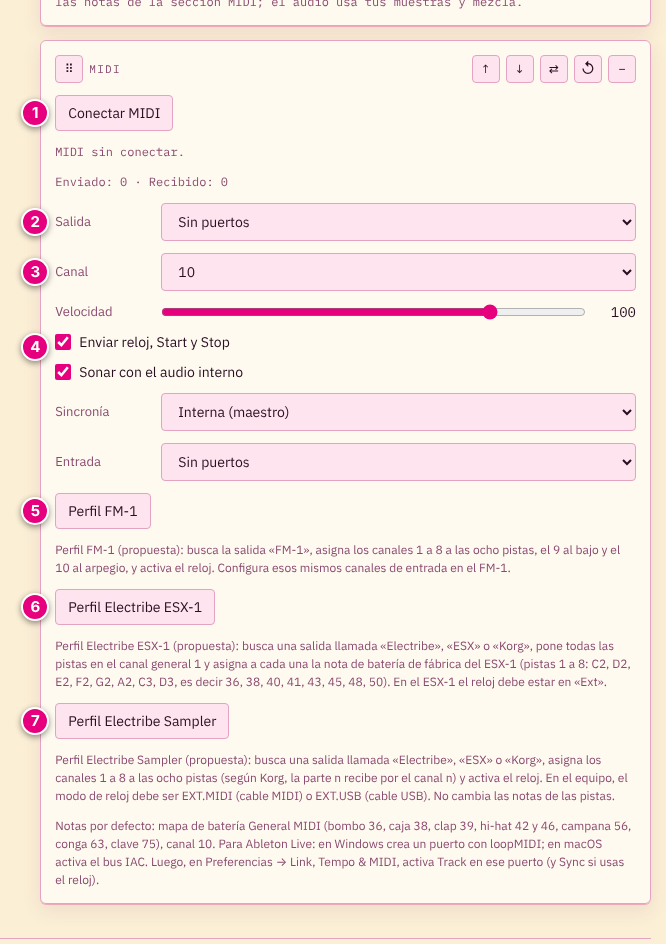
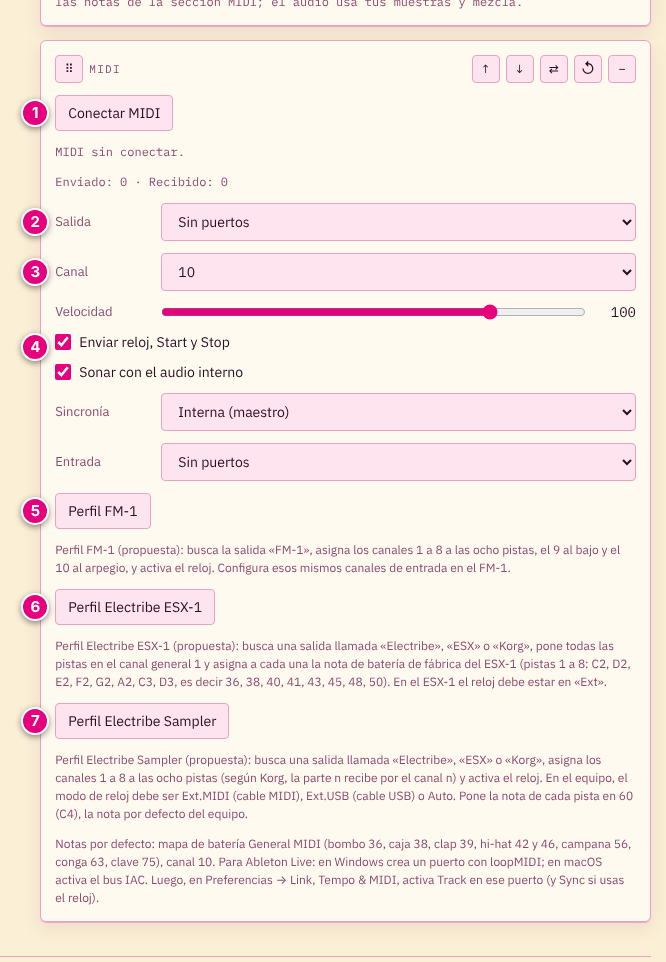
Perfil Electribe Sampler: nota 60 (C4) y modos de reloj Ext.MIDI/Ext.USB/Auto según el manual de Korg (0.18.3 / DE 0.6.3 / VA 0.3.3)
Claude-Session: https://claude.ai/code/session_01QbXvejNrjV47qK3Z6mWcs5

Changed region(s): [[0.03, 0.4915, 0.961, 0.9523], [0.03, 0.0307, 0.961, 0.5222], [0.7207, 0.0307, 0.961, 0.0922]]

diff --git a/vanilla/index.html b/vanilla/index.html
@@ -262,10 +262,10 @@ html[data-skin="dark"] body { background: radial-gradient(ellipse at 50% -10%, #
       <svg class="pisces" viewBox="0 0 24 24" fill="none" stroke="currentColor" stroke-width="1.6" stroke-linecap="round" aria-hidden="true"><path d="M6 3.5C11.5 8 11.5 16 6 20.5"/><path d="M18 3.5C12.5 8 12.5 16 18 20.5"/><path d="M4 12h16"/></svg>
       <div><div class="maker">Dark Empaths</div><div class="sub">Vanilla</div></div>
     </div>
-    <div class="model"><h1>Clave Circular</h1><span class="fw">Firmware VA 0.3.2</span></div>
+    <div class="model"><h1>Clave Circular</h1><span class="fw">Firmware VA 0.3.3</span></div>
   </header>
   <div class="tline" aria-hidden="true"></div>
-  <div class="strip" id="strip" role="status" aria-live="off">FW VA 0.3.2</div>
+  <div class="strip" id="strip" role="status" aria-live="off">FW VA 0.3.3</div>
   <div class="tools">
     <label class="tool" for="skinSel"><span>Skin</span>
       <select id="skinSel"><option value="vanilla">Vanilla</option><option value="dark">Darth</option><option value="base">Base</option></select></label>
@@ -514,7 +514,7 @@ html[data-skin="dark"] body { background: radial-gradient(ellipse at 50% -10%, #
         <div class="row wrap-row"><button id="esxProfile" type="button">Perfil Electribe ESX-1</button></div>
         <p class="note">Perfil Electribe ESX-1 (propuesta): busca una salida llamada «Electribe», «ESX» o «Korg», pone todas las pistas en el canal general 1 y asigna a cada una la nota de batería de fábrica del ESX-1 (pistas 1 a 8: C2, D2, E2, F2, G2, A2, C3, D3, es decir 36, 38, 40, 41, 43, 45, 48, 50). En el ESX-1 el reloj debe estar en «Ext».</p>
         <div class="row wrap-row"><button id="esProfile" type="button">Perfil Electribe Sampler</button></div>
-        <p class="note">Perfil Electribe Sampler (propuesta): busca una salida llamada «Electribe», «ESX» o «Korg», asigna los canales 1 a 8 a las ocho pistas (según Korg, la parte n recibe por el canal n) y activa el reloj. En el equipo, el modo de reloj debe ser EXT.MIDI (cable MIDI) o EXT.USB (cable USB). No cambia las notas de las pistas.</p>
+        <p class="note">Perfil Electribe Sampler (propuesta): busca una salida llamada «Electribe», «ESX» o «Korg», asigna los canales 1 a 8 a las ocho pistas (según Korg, la parte n recibe por el canal n) y activa el reloj. En el equipo, el modo de reloj debe ser Ext.MIDI (cable MIDI), Ext.USB (cable USB) o Auto. Pone la nota de cada pista en 60 (C4), la nota por defecto del equipo.</p>
         <p class="note">Notas por defecto: mapa de batería General MIDI (bombo 36, caja 38, clap 39, hi-hat 42 y 46, campana 56, conga 63, clave 75), canal 10. Para Ableton Live: en Windows crea un puerto con loopMIDI; en macOS activa el bus IAC. Luego, en Preferencias → Link, Tempo &amp; MIDI, activa Track en ese puerto (y Sync si usas el reloj).</p>
       </div>
     </div>
@@ -522,7 +522,7 @@ html[data-skin="dark"] body { background: radial-gradient(ellipse at 50% -10%, #
 
   <footer class="foot">
     <svg  viewBox="0 0 24 24" fill="none" stroke="currentColor" stroke-width="1.6" stroke-linecap="round" aria-hidden="true"><path d="M6 3.5C11.5 8 11.5 16 6 20.5"/><path d="M18 3.5C12.5 8 12.5 16 18 20.5"/><path d="M4 12h16"/></svg>
-    <span>Dark Empaths · Vanilla</span><span>Clave Circular · Vanilla FW VA 0.3.2</span><span>T_T</span>
+    <span>Dark Empaths · Vanilla</span><span>Clave Circular · Vanilla FW VA 0.3.3</span><span>T_T</span>
   </footer>
 </div>
 
@@ -1028,7 +1028,7 @@ html[data-skin="dark"] body { background: radial-gradient(ellipse at 50% -10%, #
       if (LANGS.indexOf(nl) >= 0) LANG = nl;
     }
   } catch (e) { /* sin almacenamiento */ }
-  /* VA 0.3.2: generativo, modulación, MIDI por pista */
+  /* VA 0.3.3: generativo, modulación, MIDI por pista */
   [
   ["Generativo", "Generative", "Generativo", "生成", "Генератив"],
   ["Pista seleccionada", "Selected track", "Pista selecionada", "所选轨道", "Выбранная дорожка"],
@@ -1108,11 +1108,11 @@ html[data-skin="dark"] body { background: radial-gradient(ellipse at 50% -10%, #
   ["Perfil Electribe ESX-1 aplicado y salida «{0}» elegida.", "Electribe ESX-1 profile applied and output «{0}» chosen.", "Perfil Electribe ESX-1 aplicado e saída «{0}» escolhida.", "已应用 Electribe ESX-1 配置并选择输出“{0}”。", "Профиль Electribe ESX-1 применён, выбран выход «{0}»."],
   ["Perfil Electribe ESX-1 aplicado. No encontré una salida con ese nombre: conecta el MIDI y elígela en Salida.", "Electribe ESX-1 profile applied. I found no output with that name: connect MIDI and pick it in Output.", "Perfil Electribe ESX-1 aplicado. Não encontrei uma saída com esse nome: conecte o MIDI e escolha-a em Saída.", "已应用 Electribe ESX-1 配置。未找到该名称的输出:请连接 MIDI 并在“输出”中选择。", "Профиль Electribe ESX-1 применён. Выход с таким именем не найден: подключите MIDI и выберите его в «Выход»."],
   ["Perfil Electribe Sampler", "Electribe Sampler profile", "Perfil Electribe Sampler", "Electribe Sampler 配置", "Профиль Electribe Sampler"],
-  ["Perfil Electribe Sampler (propuesta): busca una salida llamada «Electribe», «ESX» o «Korg», asigna los canales 1 a 8 a las ocho pistas (según Korg, la parte n recibe por el canal n) y activa el reloj. En el equipo, el modo de reloj debe ser EXT.MIDI (cable MIDI) o EXT.USB (cable USB). No cambia las notas de las pistas.",
-   "Electribe Sampler profile (proposal): looks for an output named «Electribe», «ESX» or «Korg», assigns channels 1 to 8 to the eight tracks (per Korg, part n receives on channel n) and turns the clock on. On the unit, the clock mode must be EXT.MIDI (MIDI cable) or EXT.USB (USB cable). It does not change the track notes.",
-   "Perfil Electribe Sampler (proposta): procura uma saída chamada «Electribe», «ESX» ou «Korg», atribui os canais 1 a 8 às oito pistas (segundo a Korg, a parte n recebe pelo canal n) e ativa o clock. No equipamento, o modo de clock deve ser EXT.MIDI (cabo MIDI) ou EXT.USB (cabo USB). Não altera as notas das pistas.",
-   "Electribe Sampler 配置(建议):查找名为“Electribe”“ESX”或“Korg”的输出端口,把通道 1 至 8 分配给八条轨道(据 Korg,第 n 个声部通过通道 n 接收)并开启时钟。设备上的时钟模式必须为 EXT.MIDI(MIDI 线)或 EXT.USB(USB 线)。不会更改轨道音符。",
-   "Профиль Electribe Sampler (предложение): ищет выход «Electribe», «ESX» или «Korg», назначает каналы 1–8 восьми дорожкам (по данным Korg, партия n принимает по каналу n) и включает такт. В устройстве режим такта должен быть EXT.MIDI (кабель MIDI) или EXT.USB (кабель USB). Ноты дорожек не меняются."],
+  ["Perfil Electribe Sampler (propuesta): busca una salida llamada «Electribe», «ESX» o «Korg», asigna los canales 1 a 8 a las ocho pistas (según Korg, la parte n recibe por el canal n) y activa el reloj. En el equipo, el modo de reloj debe ser Ext.MIDI (cable MIDI), Ext.USB (cable USB) o Auto. Pone la nota de cada pista en 60 (C4), la nota por defecto del equipo.",
+   "Electribe Sampler profile (proposal): looks for an output named «Electribe», «ESX» or «Korg», assigns channels 1 to 8 to the eight tracks (per Korg, part n receives on channel n) and turns the clock on. On the unit, the clock mode must be Ext.MIDI (MIDI cable), Ext.USB (USB cable) or Auto. It sets every track note to 60 (C4), the unit's default note.",
+   "Perfil Electribe Sampler (proposta): procura uma saída chamada «Electribe», «ESX» ou «Korg», atribui os canais 1 a 8 às oito pistas (segundo a Korg, a parte n recebe pelo canal n) e ativa o clock. No equipamento, o modo de clock deve ser Ext.MIDI (cabo MIDI), Ext.USB (cabo USB) ou Auto. Define a nota de cada pista em 60 (C4), a nota padrão do equipamento.",
+   "Electribe Sampler 配置(建议):查找名为“Electribe”“ESX”或“Korg”的输出端口,把通道 1 至 8 分配给八条轨道(据 Korg,第 n 个声部通过通道 n 接收)并开启时钟。设备上的时钟模式必须为 Ext.MIDI(MIDI 线)、Ext.USB(USB 线)或 Auto。每条轨道的音符设为 60(C4),即设备的默认音符。",
+   "Профиль Electribe Sampler (предложение): ищет выход «Electribe», «ESX» или «Korg», назначает каналы 1–8 восьми дорожкам (по данным Korg, партия n принимает по каналу n) и включает такт. В устройстве режим такта должен быть Ext.MIDI (кабель MIDI), Ext.USB (кабель USB) или Auto. Нота каждой дорожки ставится 60 (C4) — нота устройства по умолчанию."],
   ["Perfil Electribe Sampler aplicado y salida «{0}» elegida.", "Electribe Sampler profile applied and output «{0}» chosen.", "Perfil Electribe Sampler aplicado e saída «{0}» escolhida.", "已应用 Electribe Sampler 配置并选择输出“{0}”。", "Профиль Electribe Sampler применён, выбран выход «{0}»."],
   ["Perfil Electribe Sampler aplicado. No encontré una salida con ese nombre: conecta el MIDI y elígela en Salida.", "Electribe Sampler profile applied. I found no output with that name: connect MIDI and pick it in Output.", "Perfil Electribe Sampler aplicado. Não encontrei uma saída com esse nome: conecte o MIDI e escolha-a em Saída.", "已应用 Electribe Sampler 配置。未找到该名称的输出:请连接 MIDI 并在“输出”中选择。", "Профиль Electribe Sampler применён. Выход с таким именем не найден: подключите MIDI и выберите его в «Выход»."]
   ].forEach(R);
@@ -2161,7 +2161,7 @@ html[data-skin="dark"] body { background: radial-gradient(ellipse at 50% -10%, #
 
   /* ---------- Sonido por pista ---------- */
   /* ---------- Biblioteca de muestras y packs ---------- */
-  var FW = "VA 0.3.2";
+  var FW = "VA 0.3.3";
   var lib = [], libByKey = {};
   var AUDIO_RE = /\.(wav|wave|mp3|ogg|oga|flac|aif|aiff|m4a|aac|mpeg|mpga)$/i;
   var idb = null;
@@ -2493,7 +2493,7 @@ html[data-skin="dark"] body { background: radial-gradient(ellipse at 50% -10%, #
 
   function draw() {
     requestAnimationFrame(draw);
-    var st = "FW VA 0.3.2 │ CLK " + (state.sync === "ext" ? "EXT" : "INT") + " │ " + state.bpm + " BPM │ MIDI " +
+    var st = "FW VA 0.3.3 │ CLK " + (state.sync === "ext" ? "EXT" : "INT") + " │ " + state.bpm + " BPM │ MIDI " +
       (midi.out ? (midi.out.name || "OUT") : "OFF") + " │ PAT " + LETTERS[state.cur] + " │ " + (state.playing ? "RUN" : "STOP");
     if (st !== lastStrip) { lastStrip = st; $("strip").textContent = st; }
     if (!W) return;
@@ -3772,7 +3772,7 @@ html[data-skin="dark"] body { background: radial-gradient(ellipse at 50% -10%, #
     audio: function () { setCtl("audSplit", false); setCtl("audOut", ""); },
     midi: function () { setCtl("midiCh", DEF_MIDI.ch); setCtl("midiVel", DEF_MIDI.vel); setCtl("midiClock", DEF_MIDI.clock); setCtl("midiLocal", DEF_MIDI.local); }
   };
-  /* ---------- Generativo, modulación y MIDI por pista (VA 0.3.2) ---------- */
+  /* ---------- Generativo, modulación y MIDI por pista (VA 0.3.3) ---------- */
   var gen = { evo: { on: false, n: 2, amt: 2, scope: "all", anchor: true }, lfo: [], tn: null };
   function defLfo() { return { on: false, ch: 0, cc: 74, sh: "sin", per: 1, min: 0, max: 127, last: -1 }; }
   for (var gi = 0; gi < 3; gi++) gen.lfo.push(defLfo());
@@ -4011,7 +4011,7 @@ html[data-skin="dark"] body { background: radial-gradient(ellipse at 50% -10%, #
       var found = null;
       if (midi.access) midi.access.outputs.forEach(function (p) { if (!found && /electribe|esx|korg/i.test(p.name || "")) found = p; });
       allNotesOff();
-      state.tracks.forEach(function (t, i) { t.ch = i; });
+      state.tracks.forEach(function (t, i) { t.ch = i; t.note = 60; });
       midi.clockOut = true; ui.midiClock.checked = true;
       if (found) { midi.out = found; ui.midiOut.value = found.id; }
       resyncClock();

diff --git a/dark-empaths/index.html b/dark-empaths/index.html
@@ -224,7 +224,7 @@ html[data-skin="eclipse"] .tg, html[data-skin="ruinas"] .tg { color: var(--fg); 
       <svg class="pisces" viewBox="0 0 24 24" fill="none" stroke="currentColor" stroke-width="1.6" stroke-linecap="round" aria-hidden="true"><path d="M6 3.5C11.5 8 11.5 16 6 20.5"/><path d="M18 3.5C12.5 8 12.5 16 18 20.5"/><path d="M4 12h16"/></svg>
       <div><div class="maker">Dark Empaths</div><div class="sub">Music 4 Machines</div></div>
     </div>
-    <div class="model"><h1>Clave Circular · Dark Empaths</h1><span class="fw">Firmware DE 0.6.2</span></div>
+    <div class="model"><h1>Clave Circular · Dark Empaths</h1><span class="fw">Firmware DE 0.6.3</span></div>
   </header>
   <div class="tline" aria-hidden="true"></div>
   <div class="strip" id="strip" role="status" aria-live="off">FW DE 0.5.0</div>
@@ -474,7 +474,7 @@ html[data-skin="eclipse"] .tg, html[data-skin="ruinas"] .tg { color: var(--fg); 
         <div class="row wrap-row"><button id="esxProfile" type="button">Perfil Electribe ESX-1</button></div>
         <p class="note">Perfil Electribe ESX-1 (propuesta): busca una salida llamada «Electribe», «ESX» o «Korg», pone todas las pistas en el canal general 1 y asigna a cada una la nota de batería de fábrica del ESX-1 (pistas 1 a 8: C2, D2, E2, F2, G2, A2, C3, D3, es decir 36, 38, 40, 41, 43, 45, 48, 50). En el ESX-1 el reloj debe estar en «Ext».</p>
         <div class="row wrap-row"><button id="esProfile" type="button">Perfil Electribe Sampler</button></div>
-        <p class="note">Perfil Electribe Sampler (propuesta): busca una salida llamada «Electribe», «ESX» o «Korg», asigna los canales 1 a 8 a las ocho pistas (según Korg, la parte n recibe por el canal n) y activa el reloj. En el equipo, el modo de reloj debe ser EXT.MIDI (cable MIDI) o EXT.USB (cable USB). No cambia las notas de las pistas.</p>
+        <p class="note">Perfil Electribe Sampler (propuesta): busca una salida llamada «Electribe», «ESX» o «Korg», asigna los canales 1 a 8 a las ocho pistas (según Korg, la parte n recibe por el canal n) y activa el reloj. En el equipo, el modo de reloj debe ser Ext.MIDI (cable MIDI), Ext.USB (cable USB) o Auto. Pone la nota de cada pista en 60 (C4), la nota por defecto del equipo.</p>
         <p class="note">Notas por defecto: mapa de batería General MIDI (bombo 36, caja 38, clap 39, hi-hat 42 y 46, campana 56, conga 63, clave 75), canal 10. Para Ableton Live: en Windows crea un puerto con loopMIDI; en macOS activa el bus IAC. Luego, en Preferencias → Link, Tempo &amp; MIDI, activa Track en ese puerto (y Sync si usas el reloj).</p>
       </div>
     </div>
@@ -1058,11 +1058,11 @@ html[data-skin="eclipse"] .tg, html[data-skin="ruinas"] .tg { color: var(--fg); 
   ["Perfil Electribe ESX-1 aplicado y salida «{0}» elegida.", "Electribe ESX-1 profile applied and output «{0}» chosen.", "Perfil Electribe ESX-1 aplicado e saída «{0}» escolhida.", "已应用 Electribe ESX-1 配置并选择输出“{0}”。", "Профиль Electribe ESX-1 применён, выбран выход «{0}»."],
   ["Perfil Electribe ESX-1 aplicado. No encontré una salida con ese nombre: conecta el MIDI y elígela en Salida.", "Electribe ESX-1 profile applied. I found no output with that name: connect MIDI and pick it in Output.", "Perfil Electribe ESX-1 aplicado. Não encontrei uma saída com esse nome: conecte o MIDI e escolha-a em Saída.", "已应用 Electribe ESX-1 配置。未找到该名称的输出:请连接 MIDI 并在“输出”中选择。", "Профиль Electribe ESX-1 применён. Выход с таким именем не найден: подключите MIDI и выберите его в «Выход»."],
   ["Perfil Electribe Sampler", "Electribe Sampler profile", "Perfil Electribe Sampler", "Electribe Sampler 配置", "Профиль Electribe Sampler"],
-  ["Perfil Electribe Sampler (propuesta): busca una salida llamada «Electribe», «ESX» o «Korg», asigna los canales 1 a 8 a las ocho pistas (según Korg, la parte n recibe por el canal n) y activa el reloj. En el equipo, el modo de reloj debe ser EXT.MIDI (cable MIDI) o EXT.USB (cable USB). No cambia las notas de las pistas.",
-   "Electribe Sampler profile (proposal): looks for an output named «Electribe», «ESX» or «Korg», assigns channels 1 to 8 to the eight tracks (per Korg, part n receives on channel n) and turns the clock on. On the unit, the clock mode must be EXT.MIDI (MIDI cable) or EXT.USB (USB cable). It does not change the track notes.",
-   "Perfil Electribe Sampler (proposta): procura uma saída chamada «Electribe», «ESX» ou «Korg», atribui os canais 1 a 8 às oito pistas (segundo a Korg, a parte n recebe pelo canal n) e ativa o clock. No equipamento, o modo de clock deve ser EXT.MIDI (cabo MIDI) ou EXT.USB (cabo USB). Não altera as notas das pistas.",
-   "Electribe Sampler 配置(建议):查找名为“Electribe”“ESX”或“Korg”的输出端口,把通道 1 至 8 分配给八条轨道(据 Korg,第 n 个声部通过通道 n 接收)并开启时钟。设备上的时钟模式必须为 EXT.MIDI(MIDI 线)或 EXT.USB(USB 线)。不会更改轨道音符。",
-   "Профиль Electribe Sampler (предложение): ищет выход «Electribe», «ESX» или «Korg», назначает каналы 1–8 восьми дорожкам (по данным Korg, партия n принимает по каналу n) и включает такт. В устройстве режим такта должен быть EXT.MIDI (кабель MIDI) или EXT.USB (кабель USB). Ноты дорожек не меняются."],
+  ["Perfil Electribe Sampler (propuesta): busca una salida llamada «Electribe», «ESX» o «Korg», asigna los canales 1 a 8 a las ocho pistas (según Korg, la parte n recibe por el canal n) y activa el reloj. En el equipo, el modo de reloj debe ser Ext.MIDI (cable MIDI), Ext.USB (cable USB) o Auto. Pone la nota de cada pista en 60 (C4), la nota por defecto del equipo.",
+   "Electribe Sampler profile (proposal): looks for an output named «Electribe», «ESX» or «Korg», assigns channels 1 to 8 to the eight tracks (per Korg, part n receives on channel n) and turns the clock on. On the unit, the clock mode must be Ext.MIDI (MIDI cable), Ext.USB (USB cable) or Auto. It sets every track note to 60 (C4), the unit's default note.",
+   "Perfil Electribe Sampler (proposta): procura uma saída chamada «Electribe», «ESX» ou «Korg», atribui os canais 1 a 8 às oito pistas (segundo a Korg, a parte n recebe pelo canal n) e ativa o clock. No equipamento, o modo de clock deve ser Ext.MIDI (cabo MIDI), Ext.USB (cabo USB) ou Auto. Define a nota de cada pista em 60 (C4), a nota padrão do equipamento.",
+   "Electribe Sampler 配置(建议):查找名为“Electribe”“ESX”或“Korg”的输出端口,把通道 1 至 8 分配给八条轨道(据 Korg,第 n 个声部通过通道 n 接收)并开启时钟。设备上的时钟模式必须为 Ext.MIDI(MIDI 线)、Ext.USB(USB 线)或 Auto。每条轨道的音符设为 60(C4),即设备的默认音符。",
+   "Профиль Electribe Sampler (предложение): ищет выход «Electribe», «ESX» или «Korg», назначает каналы 1–8 восьми дорожкам (по данным Korg, партия n принимает по каналу n) и включает такт. В устройстве режим такта должен быть Ext.MIDI (кабель MIDI), Ext.USB (кабель USB) или Auto. Нота каждой дорожки ставится 60 (C4) — нота устройства по умолчанию."],
   ["Perfil Electribe Sampler aplicado y salida «{0}» elegida.", "Electribe Sampler profile applied and output «{0}» chosen.", "Perfil Electribe Sampler aplicado e saída «{0}» escolhida.", "已应用 Electribe Sampler 配置并选择输出“{0}”。", "Профиль Electribe Sampler применён, выбран выход «{0}»."],
   ["Perfil Electribe Sampler aplicado. No encontré una salida con ese nombre: conecta el MIDI y elígela en Salida.", "Electribe Sampler profile applied. I found no output with that name: connect MIDI and pick it in Output.", "Perfil Electribe Sampler aplicado. Não encontrei uma saída com esse nome: conecte o MIDI e escolha-a em Saída.", "已应用 Electribe Sampler 配置。未找到该名称的输出:请连接 MIDI 并在“输出”中选择。", "Профиль Electribe Sampler применён. Выход с таким именем не найден: подключите MIDI и выберите его в «Выход»."]
   ].forEach(R);
@@ -3922,7 +3922,7 @@ html[data-skin="eclipse"] .tg, html[data-skin="ruinas"] .tg { color: var(--fg); 
       var found = null;
       if (midi.access) midi.access.outputs.forEach(function (p) { if (!found && /electribe|esx|korg/i.test(p.name || "")) found = p; });
       allNotesOff();
-      state.tracks.forEach(function (t, i) { t.ch = i; });
+      state.tracks.forEach(function (t, i) { t.ch = i; t.note = 60; });
       midi.clockOut = true; ui.midiClock.checked = true;
       if (found) { midi.out = found; ui.midiOut.value = found.id; }
       resyncClock();

diff --git a/index.html b/index.html
@@ -224,7 +224,7 @@ html[data-skin="eclipse"] .tg, html[data-skin="ruinas"] .tg { color: var(--fg); 
       <svg class="pisces" viewBox="0 0 24 24" fill="none" stroke="currentColor" stroke-width="1.6" stroke-linecap="round" aria-hidden="true"><path d="M6 3.5C11.5 8 11.5 16 6 20.5"/><path d="M18 3.5C12.5 8 12.5 16 18 20.5"/><path d="M4 12h16"/></svg>
       <div><div class="maker">Dark Empaths</div><div class="sub">Music 4 Machines</div></div>
     </div>
-    <div class="model"><h1>Clave Circular</h1><span class="fw">Firmware 0.18.2</span></div>
+    <div class="model"><h1>Clave Circular</h1><span class="fw">Firmware 0.18.3</span></div>
   </header>
   <div class="tline" aria-hidden="true"></div>
   <div class="strip" id="strip" role="status" aria-live="off">FW 0.17.0</div>
@@ -474,7 +474,7 @@ html[data-skin="eclipse"] .tg, html[data-skin="ruinas"] .tg { color: var(--fg); 
         <div class="row wrap-row"><button id="esxProfile" type="button">Perfil Electribe ESX-1</button></div>
         <p class="note">Perfil Electribe ESX-1 (propuesta): busca una salida llamada «Electribe», «ESX» o «Korg», pone todas las pistas en el canal general 1 y asigna a cada una la nota de batería de fábrica del ESX-1 (pistas 1 a 8: C2, D2, E2, F2, G2, A2, C3, D3, es decir 36, 38, 40, 41, 43, 45, 48, 50). En el ESX-1 el reloj debe estar en «Ext».</p>
         <div class="row wrap-row"><button id="esProfile" type="button">Perfil Electribe Sampler</button></div>
-        <p class="note">Perfil Electribe Sampler (propuesta): busca una salida llamada «Electribe», «ESX» o «Korg», asigna los canales 1 a 8 a las ocho pistas (según Korg, la parte n recibe por el canal n) y activa el reloj. En el equipo, el modo de reloj debe ser EXT.MIDI (cable MIDI) o EXT.USB (cable USB). No cambia las notas de las pistas.</p>
+        <p class="note">Perfil Electribe Sampler (propuesta): busca una salida llamada «Electribe», «ESX» o «Korg», asigna los canales 1 a 8 a las ocho pistas (según Korg, la parte n recibe por el canal n) y activa el reloj. En el equipo, el modo de reloj debe ser Ext.MIDI (cable MIDI), Ext.USB (cable USB) o Auto. Pone la nota de cada pista en 60 (C4), la nota por defecto del equipo.</p>
         <p class="note">Notas por defecto: mapa de batería General MIDI (bombo 36, caja 38, clap 39, hi-hat 42 y 46, campana 56, conga 63, clave 75), canal 10. Para Ableton Live: en Windows crea un puerto con loopMIDI; en macOS activa el bus IAC. Luego, en Preferencias → Link, Tempo &amp; MIDI, activa Track en ese puerto (y Sync si usas el reloj).</p>
       </div>
     </div>
@@ -1021,11 +1021,11 @@ html[data-skin="eclipse"] .tg, html[data-skin="ruinas"] .tg { color: var(--fg); 
   ["Perfil Electribe ESX-1 aplicado y salida «{0}» elegida.", "Electribe ESX-1 profile applied and output «{0}» chosen.", "Perfil Electribe ESX-1 aplicado e saída «{0}» escolhida.", "已应用 Electribe ESX-1 配置并选择输出“{0}”。", "Профиль Electribe ESX-1 применён, выбран выход «{0}»."],
   ["Perfil Electribe ESX-1 aplicado. No encontré una salida con ese nombre: conecta el MIDI y elígela en Salida.", "Electribe ESX-1 profile applied. I found no output with that name: connect MIDI and pick it in Output.", "Perfil Electribe ESX-1 aplicado. Não encontrei uma saída com esse nome: conecte o MIDI e escolha-a em Saída.", "已应用 Electribe ESX-1 配置。未找到该名称的输出:请连接 MIDI 并在“输出”中选择。", "Профиль Electribe ESX-1 применён. Выход с таким именем не найден: подключите MIDI и выберите его в «Выход»."],
   ["Perfil Electribe Sampler", "Electribe Sampler profile", "Perfil Electribe Sampler", "Electribe Sampler 配置", "Профиль Electribe Sampler"],
-  ["Perfil Electribe Sampler (propuesta): busca una salida llamada «Electribe», «ESX» o «Korg», asigna los canales 1 a 8 a las ocho pistas (según Korg, la parte n recibe por el canal n) y activa el reloj. En el equipo, el modo de reloj debe ser EXT.MIDI (cable MIDI) o EXT.USB (cable USB). No cambia las notas de las pistas.",
-   "Electribe Sampler profile (proposal): looks for an output named «Electribe», «ESX» or «Korg», assigns channels 1 to 8 to the eight tracks (per Korg, part n receives on channel n) and turns the clock on. On the unit, the clock mode must be EXT.MIDI (MIDI cable) or EXT.USB (USB cable). It does not change the track notes.",
-   "Perfil Electribe Sampler (proposta): procura uma saída chamada «Electribe», «ESX» ou «Korg», atribui os canais 1 a 8 às oito pistas (segundo a Korg, a parte n recebe pelo canal n) e ativa o clock. No equipamento, o modo de clock deve ser EXT.MIDI (cabo MIDI) ou EXT.USB (cabo USB). Não altera as notas das pistas.",
-   "Electribe Sampler 配置(建议):查找名为“Electribe”“ESX”或“Korg”的输出端口,把通道 1 至 8 分配给八条轨道(据 Korg,第 n 个声部通过通道 n 接收)并开启时钟。设备上的时钟模式必须为 EXT.MIDI(MIDI 线)或 EXT.USB(USB 线)。不会更改轨道音符。",
-   "Профиль Electribe Sampler (предложение): ищет выход «Electribe», «ESX» или «Korg», назначает каналы 1–8 восьми дорожкам (по данным Korg, партия n принимает по каналу n) и включает такт. В устройстве режим такта должен быть EXT.MIDI (кабель MIDI) или EXT.USB (кабель USB). Ноты дорожек не меняются."],
+  ["Perfil Electribe Sampler (propuesta): busca una salida llamada «Electribe», «ESX» o «Korg», asigna los canales 1 a 8 a las ocho pistas (según Korg, la parte n recibe por el canal n) y activa el reloj. En el equipo, el modo de reloj debe ser Ext.MIDI (cable MIDI), Ext.USB (cable USB) o Auto. Pone la nota de cada pista en 60 (C4), la nota por defecto del equipo.",
+   "Electribe Sampler profile (proposal): looks for an output named «Electribe», «ESX» or «Korg», assigns channels 1 to 8 to the eight tracks (per Korg, part n receives on channel n) and turns the clock on. On the unit, the clock mode must be Ext.MIDI (MIDI cable), Ext.USB (USB cable) or Auto. It sets every track note to 60 (C4), the unit's default note.",
+   "Perfil Electribe Sampler (proposta): procura uma saída chamada «Electribe», «ESX» ou «Korg», atribui os canais 1 a 8 às oito pistas (segundo a Korg, a parte n recebe pelo canal n) e ativa o clock. No equipamento, o modo de clock deve ser Ext.MIDI (cabo MIDI), Ext.USB (cabo USB) ou Auto. Define a nota de cada pista em 60 (C4), a nota padrão do equipamento.",
+   "Electribe Sampler 配置(建议):查找名为“Electribe”“ESX”或“Korg”的输出端口,把通道 1 至 8 分配给八条轨道(据 Korg,第 n 个声部通过通道 n 接收)并开启时钟。设备上的时钟模式必须为 Ext.MIDI(MIDI 线)、Ext.USB(USB 线)或 Auto。每条轨道的音符设为 60(C4),即设备的默认音符。",
+   "Профиль Electribe Sampler (предложение): ищет выход «Electribe», «ESX» или «Korg», назначает каналы 1–8 восьми дорожкам (по данным Korg, партия n принимает по каналу n) и включает такт. В устройстве режим такта должен быть Ext.MIDI (кабель MIDI), Ext.USB (кабель USB) или Auto. Нота каждой дорожки ставится 60 (C4) — нота устройства по умолчанию."],
   ["Perfil Electribe Sampler aplicado y salida «{0}» elegida.", "Electribe Sampler profile applied and output «{0}» chosen.", "Perfil Electribe Sampler aplicado e saída «{0}» escolhida.", "已应用 Electribe Sampler 配置并选择输出“{0}”。", "Профиль Electribe Sampler применён, выбран выход «{0}»."],
   ["Perfil Electribe Sampler aplicado. No encontré una salida con ese nombre: conecta el MIDI y elígela en Salida.", "Electribe Sampler profile applied. I found no output with that name: connect MIDI and pick it in Output.", "Perfil Electribe Sampler aplicado. Não encontrei uma saída com esse nome: conecte o MIDI e escolha-a em Saída.", "已应用 Electribe Sampler 配置。未找到该名称的输出:请连接 MIDI 并在“输出”中选择。", "Профиль Electribe Sampler применён. Выход с таким именем не найден: подключите MIDI и выберите его в «Выход»."]
   ].forEach(R);
@@ -3905,7 +3905,7 @@ html[data-skin="eclipse"] .tg, html[data-skin="ruinas"] .tg { color: var(--fg); 
       var found = null;
       if (midi.access) midi.access.outputs.forEach(function (p) { if (!found && /electribe|esx|korg/i.test(p.name || "")) found = p; });
       allNotesOff();
-      state.tracks.forEach(function (t, i) { t.ch = i; });
+      state.tracks.forEach(function (t, i) { t.ch = i; t.note = 60; });
       midi.clockOut = true; ui.midiClock.checked = true;
       if (found) { midi.out = found; ui.midiOut.value = found.id; }
       resyncClock();

diff --git a/vanilla/manual/index.html b/vanilla/manual/index.html
@@ -315,7 +315,7 @@ a.volver { color: var(--accent); }
 <li><b>Enviar reloj, Start y Stop.</b> Para que el otro equipo siga el mismo tempo.</li>
 <li><b>Perfil FM-1.</b> Busca la salida llamada FM-1, asigna los canales 1 a 8 a las ocho pistas, el 9 al bajo y el 10 al arpegio, y activa el reloj. Son canales propuestos: en el FM-1 hay que configurar esos mismos canales de entrada. Si no encuentra la salida, la elige uno mismo en Salida.</li>
 <li><b>Perfil Electribe ESX-1.</b> Busca una salida llamada Electribe, ESX o Korg, pone todas las pistas en el canal general 1 y asigna a cada pista la nota de batería de fábrica del ESX-1 (pistas 1 a 8: 36, 38, 40, 41, 43, 45, 48 y 50). En el ESX-1 el reloj debe estar en «Ext».</li>
-<li><b>Perfil Electribe Sampler.</b> Busca la misma salida, asigna los canales 1 a 8 a las ocho pistas (según Korg, la parte n recibe por el canal n) y activa el reloj. No cambia las notas. En el equipo, el modo de reloj debe ser EXT.MIDI (cable MIDI) o EXT.USB (cable USB).</li>
+<li><b>Perfil Electribe Sampler.</b> Busca la misma salida, asigna los canales 1 a 8 a las ocho pistas (según Korg, la parte n recibe por el canal n), pone la nota de cada pista en 60 (C4, la nota por defecto del equipo) y activa el reloj. En el equipo, el modo de reloj debe ser Ext.MIDI (cable MIDI), Ext.USB (cable USB) o Auto.</li>
 </ol>
 <p>Cada pista puede tener su propio canal: está en el módulo Editar, “Canal MIDI de la pista” (etapa 5).</p>
 </section>
